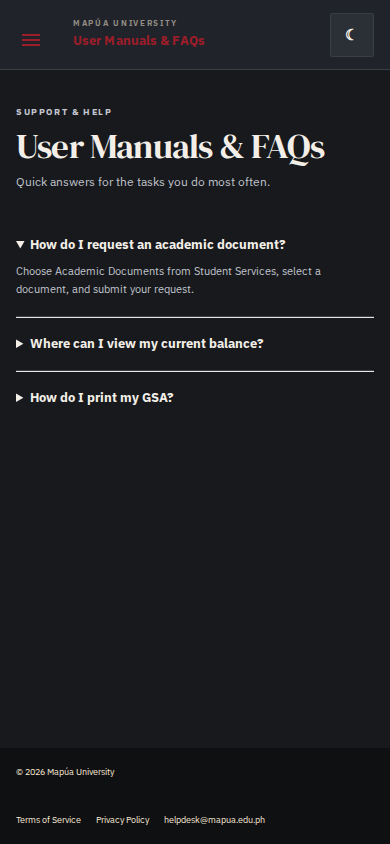
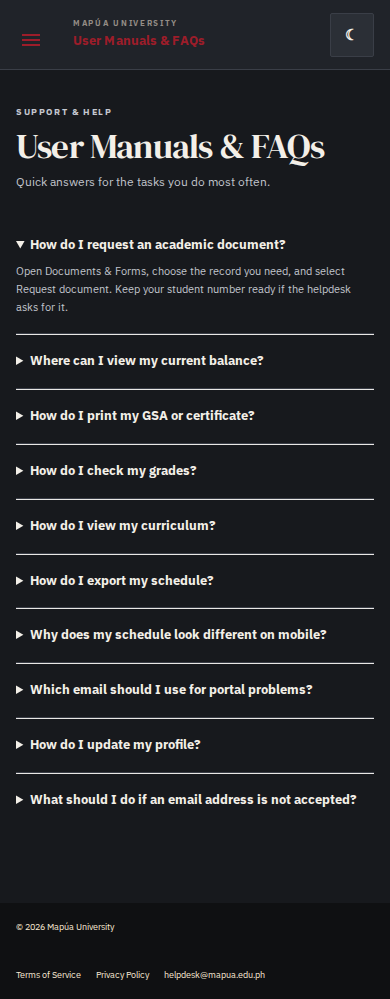
make documents and GSA actions functional

diff --git a/script.js b/script.js
@@ -197,7 +197,7 @@ const downloadableFormRows = [
   ['Course request form', 'Academic services form for requesting a course.'],
   ['Online enrollment user manual', 'Student guide for completing online enrollment.'],
 ];
-const downloadableFormsMarkup = `<div class="download-list">${downloadableFormRows.map(([title, description]) => `<div><section><strong>${title}</strong><small>${description}</small></section><button class="quiet-button" data-toast="Download prepared.">Download</button></div>`).join('')}</div>`;
+const downloadableFormsMarkup = `<div class="download-list">${downloadableFormRows.map(([title, description]) => `<div><section><strong>${title}</strong><small>${description}</small></section><button class="quiet-button" type="button" data-download-title="${title}">Download</button></div>`).join('')}</div>`;
 pageData['#forms'][2] = pageData['#forms'][2].replace(/<div class="download-list">[\s\S]*?<\/div><\/section><\/div>$/, `${downloadableFormsMarkup}</section></div>`);
 
 pageData['#faqs'][2] = '<div class="faq-list"><details open><summary>How do I request an academic document?</summary><p>Open Documents &amp; Forms, choose the record you need, and select Request document. Keep your student number ready if the helpdesk asks for it.</p></details><details><summary>Where can I view my current balance?</summary><p>Open Statement of Account under Bills &amp; Payments. The current charge, due date, payment options, and selected total are shown there.</p></details><details><summary>How do I print my GSA or certificate?</summary><p>Open Print GSA or E-CM and select the print action. Your browser print dialog will open so you can choose a printer or save the page as a PDF.</p></details><details><summary>How do I check my grades?</summary><p>Open My Grades under Academics. Use the school-year selector and term tabs to review current and previous records.</p></details><details><summary>How do I view my curriculum?</summary><p>Open My Curriculum to switch between core courses, electives, and specialization. Previous academic years can be selected from the academic-year menu.</p></details><details><summary>How do I export my schedule?</summary><p>Open My Schedule, select Export schedule, then choose PDF, image, or CSV. CSV is useful for moving the timetable into a spreadsheet.</p></details><details><summary>Why does my schedule look different on mobile?</summary><p>Mobile starts in a focused day view to keep classes readable. Select Full view to open the complete weekly timetable.</p></details><details><summary>Which email should I use for portal problems?</summary><p>Use helpdesk@mapua.edu.ph for login, portal, and technical problems. Include the page name and a screenshot when possible.</p></details><details><summary>How do I update my profile?</summary><p>Open Profile, update the available fields, and select Save changes. Read-only student-record fields are controlled by the university.</p></details><details><summary>What should I do if an email address is not accepted?</summary><p>Sign-in is limited to your @mymail.mapua.edu.ph or @mapua.edu.ph account. Check the spelling and use your official university address.</p></details></div>';
@@ -376,6 +376,12 @@ function exportTableCsv(table, filename) {
   downloadBlob(new Blob([csv], { type: 'text/csv;charset=utf-8' }), filename);
   showToast('CSV export downloaded.');
 }
+function downloadDocument(title) {
+  const description = downloadableFormRows.find(([label]) => label === title)?.[1] || 'myMapua student portal document.';
+  const content = `${title}\n\n${description}\n\nMapua University\nmyMapua Student Portal\nGenerated from the mock student portal.`;
+  downloadBlob(new Blob([content], { type: 'text/plain;charset=utf-8' }), `${title.toLowerCase().replace(/[^a-z0-9]+/g, '-').replace(/^-|-$/g, '')}.txt`);
+  showToast('Document downloaded.');
+}
 
 async function renderScheduleCanvas() {
   const source = document.querySelector('.weekly-schedule');
@@ -528,6 +534,7 @@ function bindActions() {
     if (!table) return;
     exportTableCsv(table, `${button.dataset.exportTable || 'mymapua-table'}.csv`);
   }));
+  document.querySelectorAll('[data-download-title]').forEach((button) => button.addEventListener('click', () => downloadDocument(button.dataset.downloadTitle)));
   document.querySelectorAll('[data-toast]').forEach((button) => button.addEventListener('click', () => {
     if (!button.dataset.printPage) showToast(button.dataset.toast);
   }));
